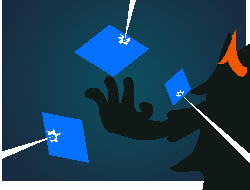
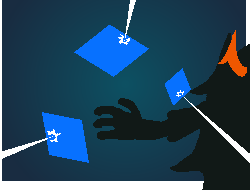
new strike art

Changed region(s): [[0.336, 0.3947, 0.616, 0.7368]]

diff --git a/src/main/java/theGamblignant/cards/CriticalStrike.java b/src/main/java/theGamblignant/cards/CriticalStrike.java
@@ -18,7 +18,7 @@ public class CriticalStrike extends AbstractVriskaCard {
     // TEXT DECLARATION
 
     public static final String ID = VriskaMod.makeID(CriticalStrike.class.getSimpleName());
-    public static final String IMG = makeCardPath("Attack.png");
+    public static final String IMG = makeCardPath("criticalstrike.png");
     // This does mean that you will need to have an image with the same NAME as the card in your image folder for it to run correctly.
     private static final CardStrings cardStrings = CardCrawlGame.languagePack.getCardStrings(ID);
     public static final String UPGRADE_DESCRIPTION = cardStrings.UPGRADE_DESCRIPTION;

diff --git a/src/main/java/theGamblignant/cards/Strike_Cobalt.java b/src/main/java/theGamblignant/cards/Strike_Cobalt.java
@@ -18,7 +18,7 @@ public class Strike_Cobalt extends AbstractVriskaCard {
     // TEXT DECLARATION
 
     public static final String ID = VriskaMod.makeID(Strike_Cobalt.class.getSimpleName());
-    public static final String IMG = makeCardPath("strike2.png");
+    public static final String IMG = makeCardPath("strike.png");
     private static final CardStrings cardStrings = CardCrawlGame.languagePack.getCardStrings(ID);
     public static final String UPGRADE_DESCRIPTION = cardStrings.UPGRADE_DESCRIPTION;
 
